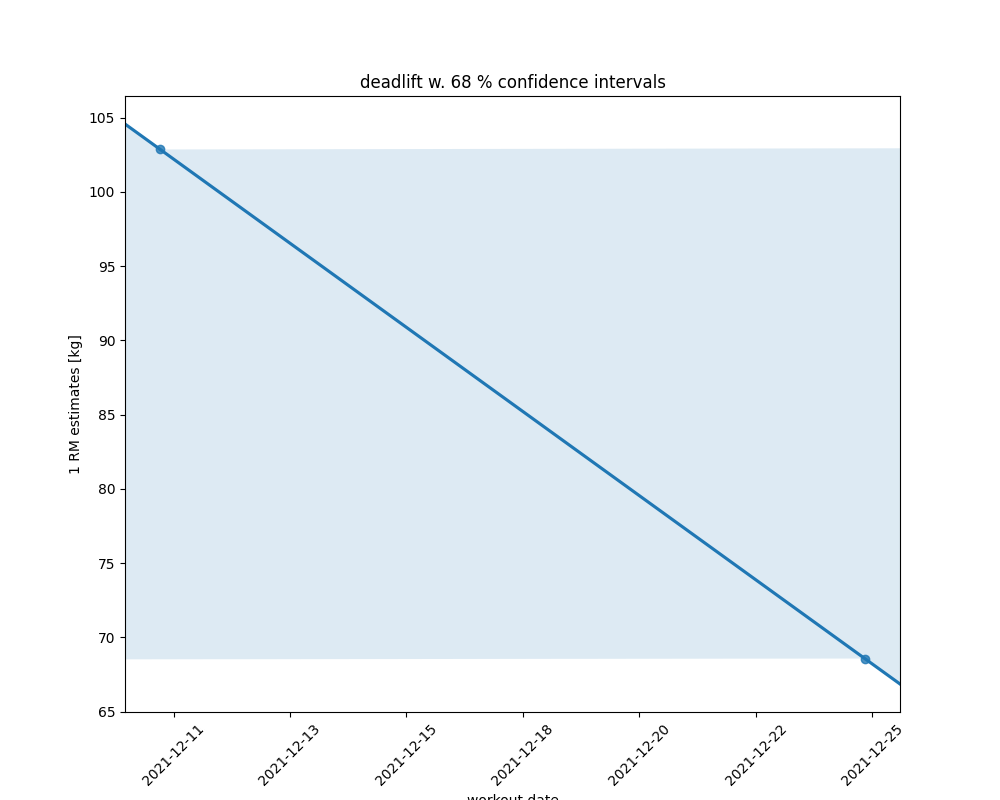
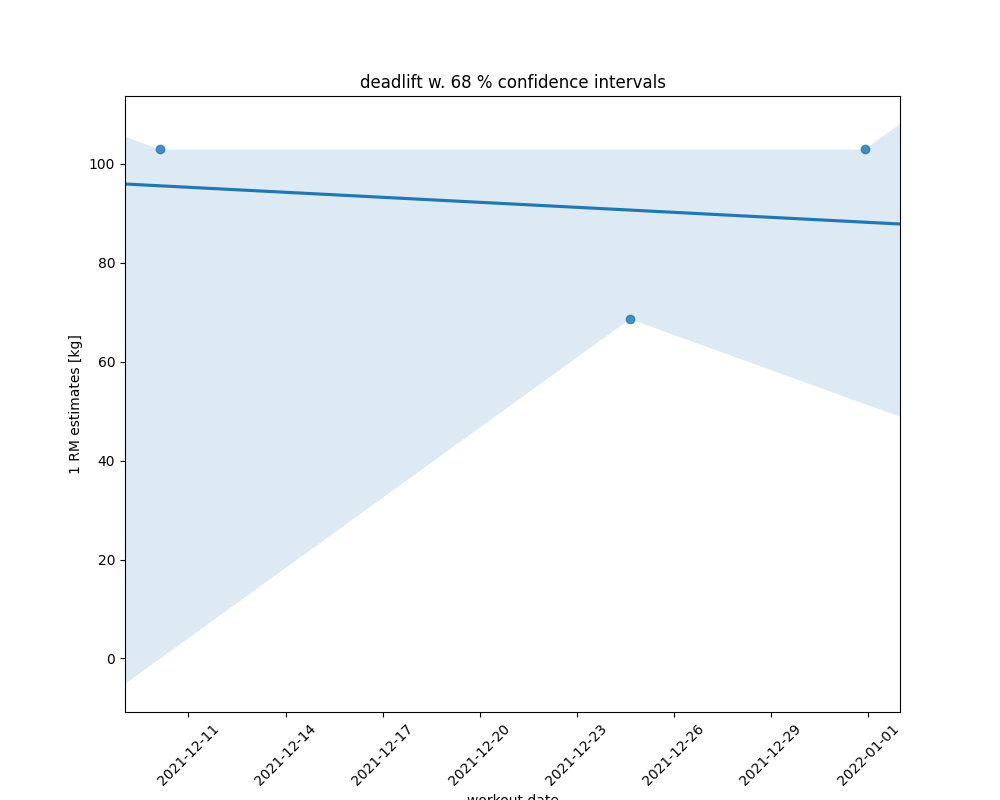
Add todays workout

diff --git a/src/CRUD/insert.py b/src/CRUD/insert.py
@@ -55,14 +55,14 @@ def insert_specific_log(date, table):
 def main():
     """Insert training log from specific date"""
     data_models = ["real", "simulated"]
-    data_model = data_models[1]
+    data_model = data_models[0]
 
     db = TinyDB("data/db.json") if data_model == "real" else TinyDB("data/sim_db.json")
     logs = ["weight_training_log", "disciplines_log"]
     table = db.table(logs[0])
 
     if data_model == "real":
-        date = "2021-12-30"
+        date = "2022-01-01"
         insert_specific_log(date, table)
 
         """
